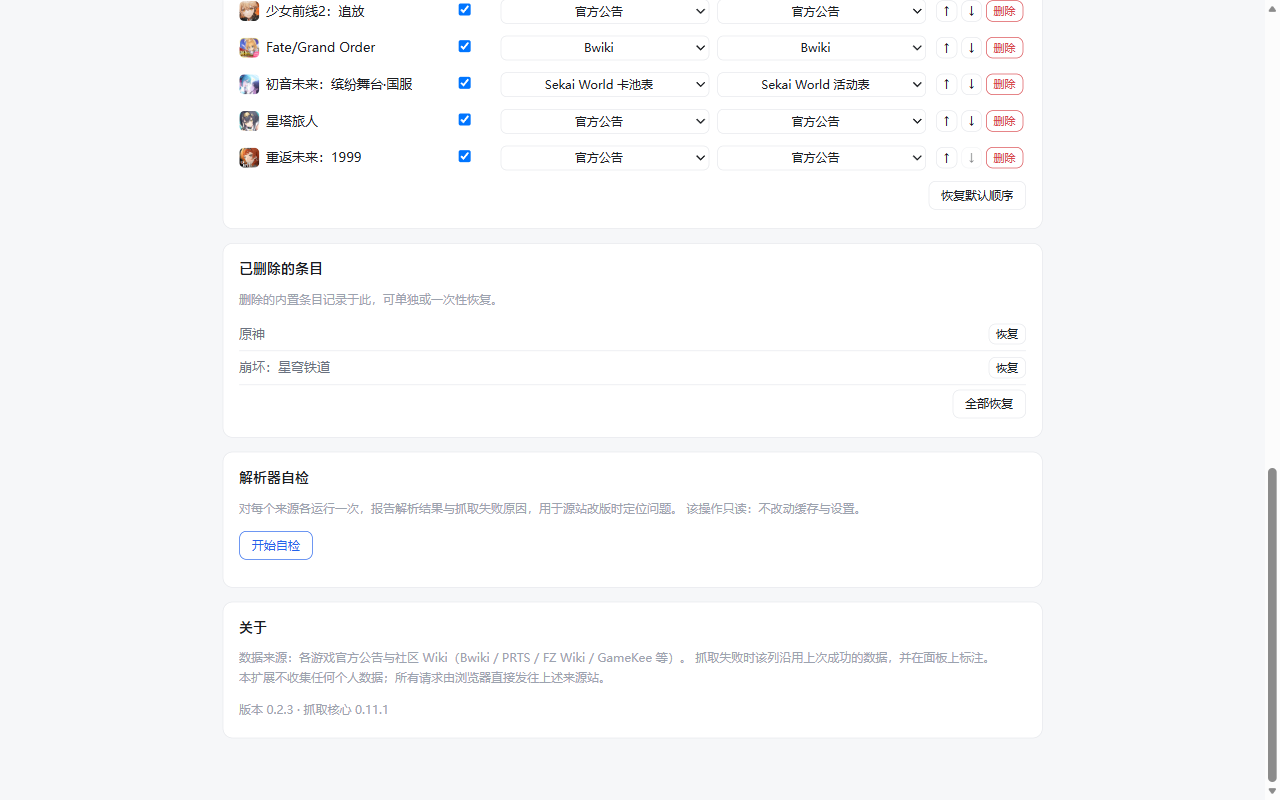
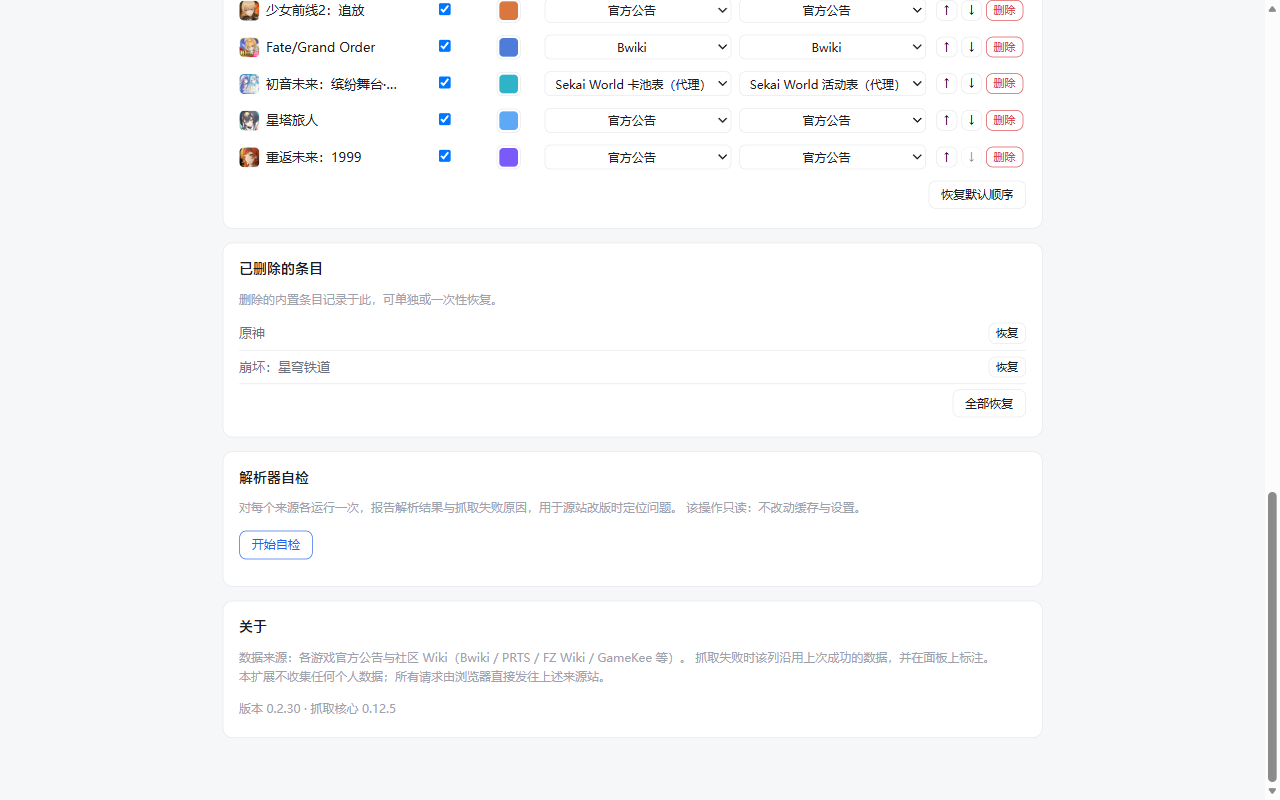
chore(store): v0.2.30 商店材料收拾就绪（被 0.2.6 审核阻塞）
**状态**：Partner Center 显示 0.2.6 **In review**；同一扩展只能有一个在审提交，
所以新版本**现在不能发**，材料先备齐。

**本次收拾**
- 截图 3 张全部重拍为 1280×800：
  01 新面板展示页（左侧品牌 + 右侧 520×600 面板）
  02 设置页（含新的「颜色」列与真实色块）
  03 已删除条目恢复 + 自检
- `tools/make-store-assets.mjs` 补回展示页生成（`_lab/store-1280x800.html`），截图可复现
- 文案改版：zh 643→**880** 字符、en 1728→**2182** 字符
  （新增：新面板 520×600 / 近期卡片 / 条目光标色 / 失败并入底栏 / 刷新图标）
- 权限理由：补 **declarativeNetRequestWithHostAccess** 说明；披露 `*.gamekee.com` 子域通配的由来
  （该 CDN 域名来自接口响应 `content_cdn`，无法静态逐个声明）
- 认证说明（中/英）：改为当前 UI 步骤 —— 弹窗即 520×600 面板；设置页入口改为"右键图标→扩展选项"；如何切回旧面板
- privacy-fields/README 更新 3 号文件"两段合一"的粘贴方式
- PUBLISHING 记录本轮材料与阻塞项

**校验**：check-listing 通过（含审核字段 6 项）；verify / check-domains / test-domain-guard / test-options 通过；
zip 19/19 CRC；文案字数在 250~10000 区间内。

> 相对 0.2.6，本次权限面有变化（新增 DNR 权限 + gamekee 子域通配），提交时会再触发一次权限审核。

diff --git a/store/listing-zh-CN.md b/store/listing-zh-CN.md
@@ -21,21 +21,27 @@
 
 ## 二、说明（每种语言必填，250 ~ 10000 字符）
 
-当前字数：643 字符（下限 250，上限 10000）。
+当前字数：880 字符（下限 250，上限 10000）。
 
 ```
 「二游日历」把 28 款二次元手游当前正在进行的卡池与活动排期，收在一处看。
 
-点浏览器工具栏图标，每款游戏显示两行：当期卡池（外显 UP 角色）与当期活动，各带「还剩 X 天 X 小时 X 分钟」的倒计时。鼠标悬停可以看完整的卡池名称、UP 角色列表和时间原文。
+点浏览器工具栏图标即可弹出日程面板（520×600）：
+· 顶部是「近期卡片」——按紧迫度显示最紧急的那一条（图标、剩余天数、档期与进度环），旁边列出接下来三项；也可在设置里切换成「近期列表」逐条浏览。
+· 下方是日程表，每款游戏两行：第一行当期卡池（外显 UP 角色）、第二行当期活动，各自带起止时间、「还剩 X 天 X 小时」倒计时与一根 14 天进度条。
+· 鼠标悬停在卡池/活动文字上，可查看完整池名、UP 角色列表与时间原文。
 
 覆盖 28 款：原神、崩坏：星穹铁道、绝区零、崩坏3、鸣潮、明日方舟、明日方舟：终末地、蔚蓝档案（国服/国际服/日服）、BanG Dream！少女乐团派对、BanG Dream！OurNotes（日服/国际服）、物华弥新、战双帕弥什、卡厄斯梦境、雪松、嘟嘟脸恶作剧、闪耀！优俊少女、赛马娘（日服/国际服）、女神异闻录：夜幕魅影、异环、少女前线2：追放、Fate/Grand Order、初音未来：缤纷舞台、星塔旅人、重返未来：1999。
 
 主要功能：
-· 一排看完当期卡池与活动，带剩余时间倒计时
+· 顶部「近期卡片 / 近期列表」二选一，按紧迫度排序
+· 每款游戏两行（卡池 / 活动），带 14 天进度条与剩余倒计时
 · 悬停查看完整池名、UP 角色与活动时间明细
+· 设置页可为每个条目自定义强调色（影响进度条与卡片配色），可一键恢复默认
 · 设置页可开关每一项是否展示、调整条目顺序、删除与恢复条目
 · 卡池来源与活动来源可以分别切换（部分游戏提供多个社区来源可选）
 · 可设置刷新频率（默认按天），避免频繁访问来源站
+· 抓取失败时在常驻底栏提示是哪个来源、什么原因，点刷新图标即重试
 · 内置解析器自检：某个来源解析异常时能看出是哪一个
 
 数据来源为各游戏官方公告页与社区 Wiki（Bwiki / PRTS / FZ Wiki / GameKee 等）。所有请求由你的浏览器直接发往这些来源站；本扩展不收集、不上传任何个人数据，不含统计与广告代码，也不注入或修改任何网页。
@@ -73,14 +79,30 @@
 仅用于在用户本机保存两类信息：(1) 用户偏好设置——哪些条目需要展示、条目顺序、卡池/活动来源的选择、刷新频率，以及用户手动填写的自定义来源地址；(2) 最近一次成功抓取的结果缓存，用于在来源站限流或网络异常时显示上次数据。这些数据只写入 chrome.storage.local，不同步、不上传，也不包含任何个人身份信息。
 ```
 
-**主机访问权限（host_permissions，共 49 个域名）：**
+**`declarativeNetRequestWithHostAccess`：**
+
+```
+仅用于给一处来源补 Referer 请求头。GameKee（蔚蓝档案）的内容数据放在一个 CDN 子域上，该 CDN 会校验 Referer，
+而浏览器的 fetch 不允许页面/扩展自行设置 Referer。为此用 declarativeNetRequest 的 modifyHeaders 规则，
+在请求发出前补上 `Referer: https://www.gamekee.com/`。
+
+关键点：
+1) 规则只匹配 api-cdn.gamekee.com（已授权的域名），不拦截、不修改其它任何网站的请求；
+2) 只改请求头，不读取、不上传任何数据，不涉及响应内容；
+3) 未申请 `declarativeNetRequest`（可拦截全站请求的那个权限），只用 withHostAccess 变体。
+```
+
+**主机访问权限（host_permissions，共 49 条）：**
 
 ```
 本扩展的功能是抓取各游戏官方公告页与社区 Wiki 上的公开活动/卡池信息，因此需要访问这些来源站。浏览器要求扩展在发起跨域请求前静态声明目标域名，所以这些域名逐个列在 manifest 中。
 
 关键点：
-1) 未申请 <all_urls>，也没有任何通配的全网权限，只声明了实际抓取用到的具体域名；
-2) 这些域名对应的是原神、星穹铁道、绝区零、明日方舟、蔚蓝档案、赛马娘、Fate/Grand Order 等游戏的官方公告页与社区 Wiki（Bwiki / PRTS / FZ Wiki / GameKee 等）；
+1) 未申请 <all_urls>，也没有任何 "所有网站" 的权限。49 条里 47 条是具体域名，另有 2 条与 GameKee 同域：
+   https://gamekee.com/* 与 https://*.gamekee.com/*。后者是**子域通配**——因为 GameKee 的内容 CDN 地址
+   是由接口响应里的 content_cdn 字段给出的（实测指向 api-cdn.gamekee.com），页面里并不固定出现，
+   无法预先逐个列成具体域名，只能按域授权；除此之外没有任何通配权限；
+2) 这些域名对应的是原神、星穹铁道、绝区零、明日方舟、蔚蓝档案、赛马娘、Fate/Grand Order 等游戏的官方公告页与社区 Wiki（Bwiki / PRTS / FZ Wiki / GameKee 等），另有少数用于加载游戏图标的静态资源域名；
 3) 请求仅用于读取公开页面内容，不发送任何用户数据；扩展不包含 content script，也不会读取或修改用户正在浏览的网页。
 ```
 
@@ -114,15 +136,19 @@ https://eastmg.github.io/gacha-calendar-extension/privacy.html
 本扩展无需登录、无需账号即可完整测试，启动后没有账号门槛。
 
 测试步骤：
-1. 安装后在工具栏点「二游日历」图标，面板会立即显示界面，并自动抓取一轮（约 5～15 秒）。
-2. 每款游戏显示两行：当期卡池（含 UP 角色）与当期活动，右侧是剩余时间倒计时。
-3. 鼠标悬停在卡池/活动文字上，会显示完整池名、UP 角色与时间原文。
-4. 点面板右上角齿轮打开设置页，可开关每一款是否展示、调整顺序、删除与恢复条目、切换抓取来源。
-   设置页最下方的「开始自检」会对每个来源各跑一次并报告结果。
+1. 安装后在工具栏点「二游日历」图标，会**直接弹出一个日程面板**（520×600），并自动抓取一轮（约 5～15 秒）。
+2. 面板顶部是「近期卡片」：最紧迫的那一条（图标 / 剩余天数 / 档期 / 进度环）+ 右侧接下来三项；
+   可在设置页把它切换为「近期列表」。
+3. 下方是日程表，每款游戏两行：第一行卡池、第二行活动，各自带起止时间、剩余时间与 14 天进度条。
+4. 鼠标悬停在卡池/活动文字上，会显示完整池名、UP 角色与时间原文。
+5. 打开设置页：在工具栏图标上右键 → 「扩展选项」，或在扩展管理页（edge://extensions）点该扩展的「扩展选项」。
+   设置页可开关每款是否展示、自定义条目强调色、调整顺序、删除与恢复条目、切换抓取来源；
+   页面底部「开始自检」会对每个来源各跑一次并报告结果。
+6. 若想回到旧版小面板：设置页 → 实验特性 → 取消勾选「新日程面板」。
 
 可能需要知悉：
-· 部分来源站有访问频率限制。若短时间内反复刷新，Bwiki 会返回 HTTP 567，面板会标注该来源「失败」
-  并在该列沿用上一次成功的数据。这不是扩展缺陷，间隔一段时间即自行恢复。
+· 部分来源站有访问频率限制。若短时间内反复刷新，Bwiki 会返回 HTTP 567；此时面板底栏会提示
+  是哪个来源失败、原因是什么，并在该列沿用上一次成功的数据。这不是扩展缺陷，间隔一段时间即自行恢复。
 · 少数游戏在当期尚未发布新卡池/活动时，会显示「未公布」或「无匹配」，属正常显示。
 · 扩展不采集任何数据、不上传任何内容，也不包含 content script，因此不会修改任何网页。
 ```

diff --git a/store/PUBLISHING.md b/store/PUBLISHING.md
@@ -279,7 +279,8 @@ Partner Center → **Analytics** 页有三个标签：`Weekly users` / `Installs
 | **0.2.28（颜色口径统一）** | 设置页色块改为显示面板真实颜色（共用 game-color.js + sourceTable） |
 | **0.2.29（悬停精简）** | 颜色色块悬停只显示色值（语义留在 aria-label） |
 | **0.2.30（通读清理）** | 注释/命名统一、删死 CSS（failbar 系列）、gameColors 边界加固 |
-| 商店文案补更新 | ✅ **已过审生效**（zh 643 / en 1728 字符，已不再列举 Bestdori） |
+| **商店提交（0.2.30）** | **材料已就绪**：3 张截图重拍、文案改版、权限理由补 DNR/通配披露、认证步骤更新；**被 0.2.6 审核阻塞，暂不能发布** |
+| 商店文案补更新 | ✅ 上一次已过审生效（zh 643 / en 1728 字符）\n| **文案改版（待提交）** | 本地已改：zh **880** 字符、en **2182** 字符（新增新面板/颜色/失败提示说明） |
 
 > 0.2.6 涉及**新增 3 个主机权限**（`gametora.com`、`gh-proxy.com`、
 > `raw.githubusercontent.com`）并移除 4 个已废弃的图标域名，净变化 49 → 48 条。
@@ -291,6 +292,20 @@ Partner Center → **Analytics** 页有三个标签：`Weekly users` / `Installs
 
 > 0.2.7 新增实验性「新日程面板」（一比一移植自 DSH 插件），**权限面未变**；
 > 因内联 React 运行时，包体从约 260KB 增至约 415KB（zip）。
+
+### 2026-10-21 商店材料收拾（0.2.30，待 0.2.6 出结果后提交）
+
+| 项目 | 状态 |
+|---|---|
+| 包 | `release/gacha-calendar-extension-0.2.30.zip`（19 文件，421 KB） |
+| 截图 | 3 张全部重拍为 **1280×800**：新面板展示页 / 设置页（含颜色列）/ 已删除条目+自检 |
+| 说明文案 | zh 880 字符（下限 250 / 上限 10000）、en 2182 字符 —— `check-listing` 通过 |
+| 权限理由 | 补 **declarativeNetRequestWithHostAccess** 说明；披露 `*.gamekee.com` 子域通配的由来 |
+| 认证说明 | 改为当前 UI 步骤（弹窗是 520×600 面板；设置页入口改为"右键图标→扩展选项"；如何切回旧面板） |
+| 阻塞项 | Partner Center 显示 **0.2.6 In review**；同一扩展只能有一个在审提交 ⇒ 发布要等它出结果 |
+
+> ⚠ 相对 0.2.6，这次**权限面有变化**（新增 `declarativeNetRequestWithHostAccess` 与
+> `*.gamekee.com` 通配），提交新版本会再触发一次权限审核 —— 认证说明里已把这两项为什么需要写清楚。
 
 ### 提交节奏的一条经验
 

diff --git a/store/listing-en-US.md b/store/listing-en-US.md
@@ -5,18 +5,22 @@
 
 ## Description（必填，250 ~ 10000 字符）
 
-当前字数：1728 字符。
+当前字数：2182 字符。
 
 ```
 "Gacha Calendar" collects the currently running banners and events of 28 anime-style mobile games into one place.
 
-Click the toolbar icon and each game shows two lines: the current banner (with the featured characters) and the current event, each with a live countdown such as "9d 3h 54m remaining". Hover over a line to see the full banner name, the complete featured-character list, and the original date text.
+Click the toolbar icon to open a schedule panel (520x600):
+- The top area is a "recent card" showing the most urgent item (icon, days left, date range, progress ring) with the next three items listed beside it. You can switch it to a "recent list" in settings.
+- Below that is the schedule table: each game takes two lines - the current banner (with featured characters) on the first, the current event on the second - each with its date range, a live countdown such as "9d 3h 54m remaining", and a 14-day progress bar.
+- Hover over a line to see the full banner name, the complete featured-character list, and the original date text.
 
 Supported games (28): Genshin Impact, Honkai: Star Rail, Zenless Zone Zero, Honkai Impact 3rd, Wuthering Waves, Arknights, Arknights: Endfield, Blue Archive (CN / Global / JP), BanG Dream! Girls Band Party, BanG Dream! OurNotes (JP / Global), Wuhua Mixin, Punishing: Gray Raven, Chaos Zero Nightmare, Cedar, Dudufaces, Uma Musume Pretty Derby (JP / Global), Persona5: The Phantom X, Neverness to Everness, Girls' Frontline 2: Exilium, Fate/Grand Order, Project SEKAI (CN), Stellar Sora, Reverse: 1999.
 
 Features:
 - See every current banner and event at a glance, with remaining-time countdowns
 - Hover for full banner names, featured characters and exact dates
+- Settings page: pick a custom accent color per entry (used by the progress bars and the card), with one-click reset
 - Settings page: toggle which entries appear, reorder them, delete and restore entries
 - Choose the banner source and event source independently (several games offer multiple community sources)
 - Configurable refresh interval (daily by default) to avoid hammering the source sites

diff --git a/store/privacy-fields/README.md b/store/privacy-fields/README.md
@@ -15,10 +15,16 @@
 | 页面上的权限 | 粘贴哪个文件 |
 |---|---|
 | `storage` | `2-权限理由-storage.txt` |
-| Host permissions / 主机权限（或按域名分组的那一栏） | `3-权限理由-主机权限.txt` |
+| Host permissions / 主机权限（或按域名分组的那一栏） | `3-权限理由-主机权限.txt` 的**【主机权限】**那一段 |
+| `declarativeNetRequestWithHostAccess` | `3-权限理由-主机权限.txt` 的**【声明式网络请求权限】**那一段 |
+
+> ⚠ `3-权限理由-主机权限.txt` / `3-permission-host-EN.txt` 现在是**两段合一**：
+> 前半段解释 host_permissions（49 条，含 1 条 `*.gamekee.com` 子域通配的原因），
+> 后半段解释新增的 `declarativeNetRequestWithHostAccess`（给 GameKee CDN 补 Referer）。
+> 若表单把两者合并成一个框，就整份粘；若分成两个框，按小节各粘一段。
 
 > 若权限理由栏是**按每个域名单独一个框**（49 个域名会很多），那就只在
-> **第一个框或"Host permissions"总框**里粘 `3-权限理由-主机权限.txt` 的内容即可 ——
+> **第一个框或"Host permissions"总框**里粘【主机权限】那一段 ——
 > 那一段本身已解释了"为什么需要这一批域名"。不必 49 个框逐个填同样的话。
 
 ### ③ Are you using remote code?（是否使用远程代码）
